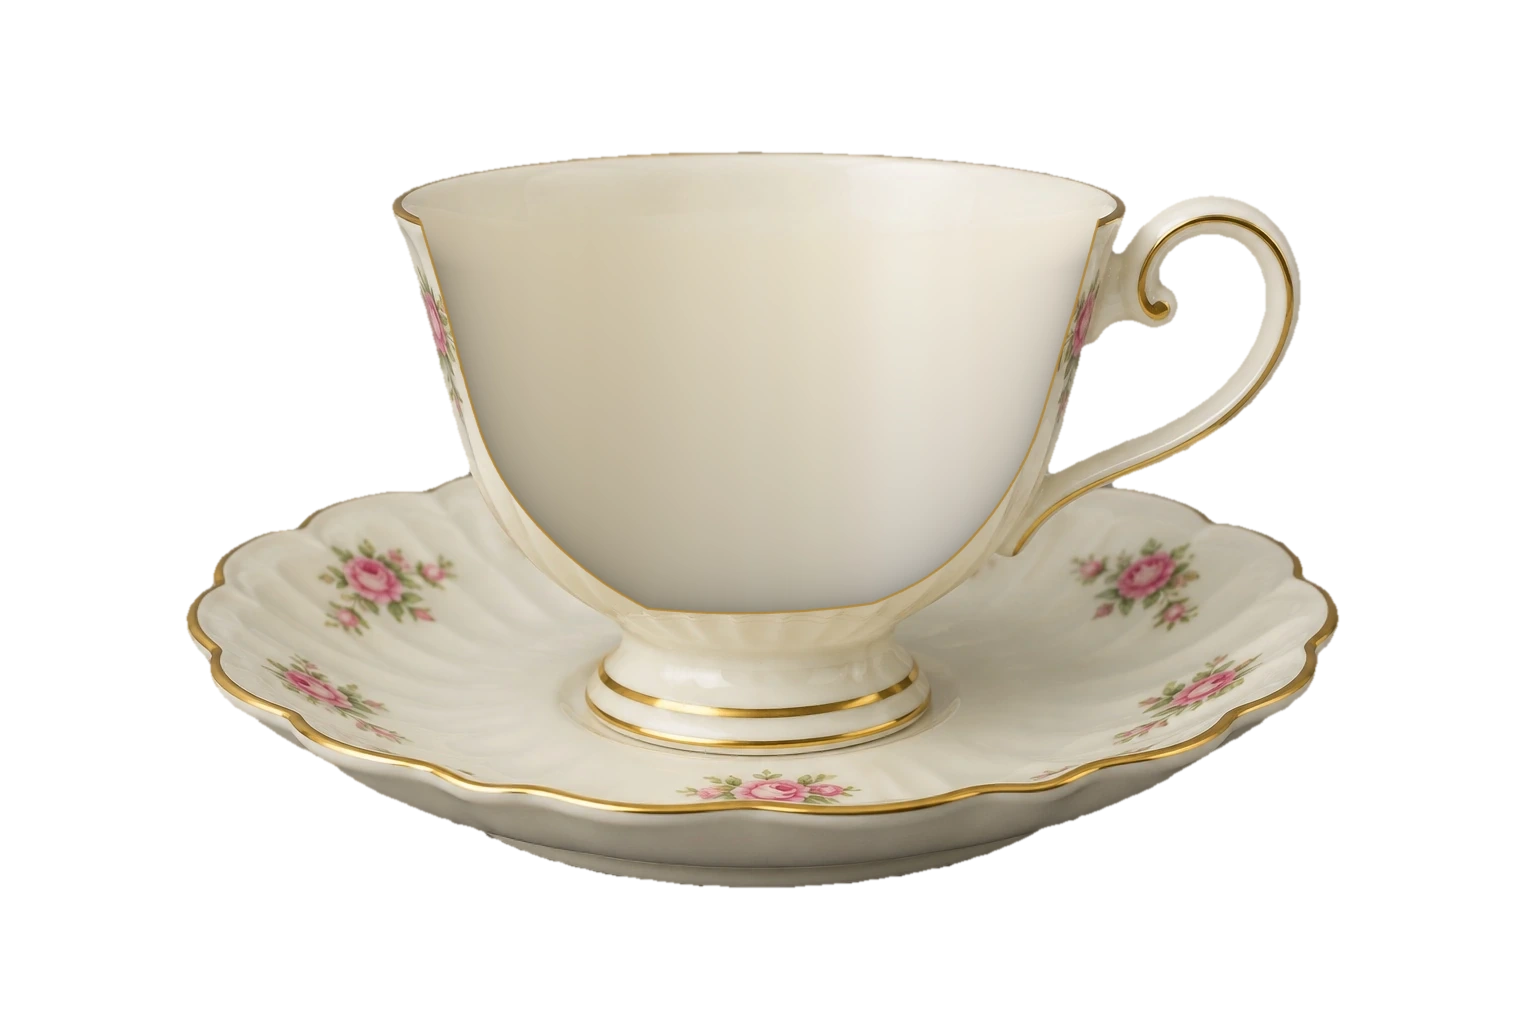
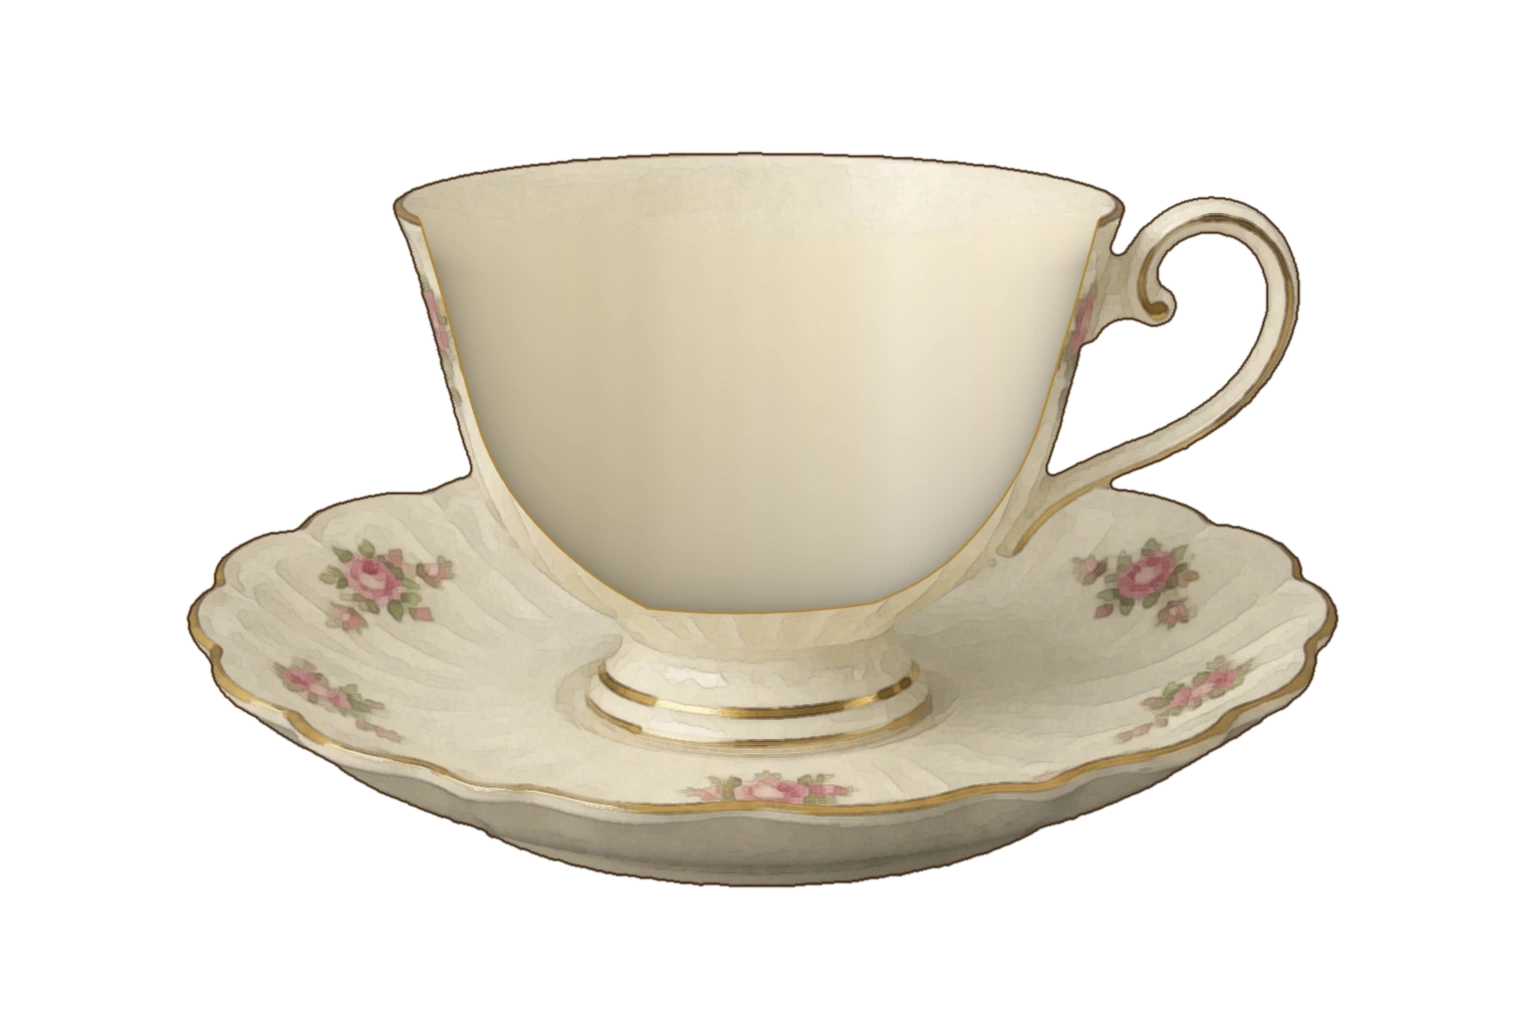
Tea scene in the storybook style: a painted tea table and a watercolour-and-ink teacup, matching the boy

diff --git a/index.html b/index.html
@@ -581,11 +581,11 @@ function tint(src, color, mode, inner, paleOnly){
   return t;
 }
 const PHOTOS = {under: 'img/plain.jpg', milk: 'img/milk.jpg', dark: 'img/dark.jpg', white: 'img/white.jpg'};
-{ const im = new Image(); im.onload = () => { CUPSHADOW = cupShadow(im); CUPIMG = im; }; im.src = 'img/teacup.webp'; }
-{ const im = new Image(); im.onload = () => { CUTIMG = im; }; im.src = 'img/teacup-cut.webp'; }
+{ const im = new Image(); im.onload = () => { CUPSHADOW = cupShadow(im); CUPIMG = im; }; im.src = 'img/teacup.webp?v=2'; }
+{ const im = new Image(); im.onload = () => { CUTIMG = im; }; im.src = 'img/teacup-cut.webp?v=2'; }
 { const L = {}; let n = 0;
   for (const k of ['head', 'jaw', 'mouth']){ const im = new Image(); im.onload = () => { L[k] = im; if (++n === 3) BOYIMG = L; }; im.src = `img/storyboy-${k}.webp?v=6`; } }
-{ const im = new Image(); im.onload = () => { TABLE = tableCanvas(im); }; im.src = 'img/table.jpg'; }
+{ const im = new Image(); im.onload = () => { TABLE = tableCanvas(im); }; im.src = 'img/table.jpg?v=2'; }
 Promise.all(Object.entries(PHOTOS).map(([id, src]) => new Promise((ok, no) => {
   const im = new Image(); im.onload = () => ok([id, im]); im.onerror = no; im.src = src;
 }))).then(list => {
